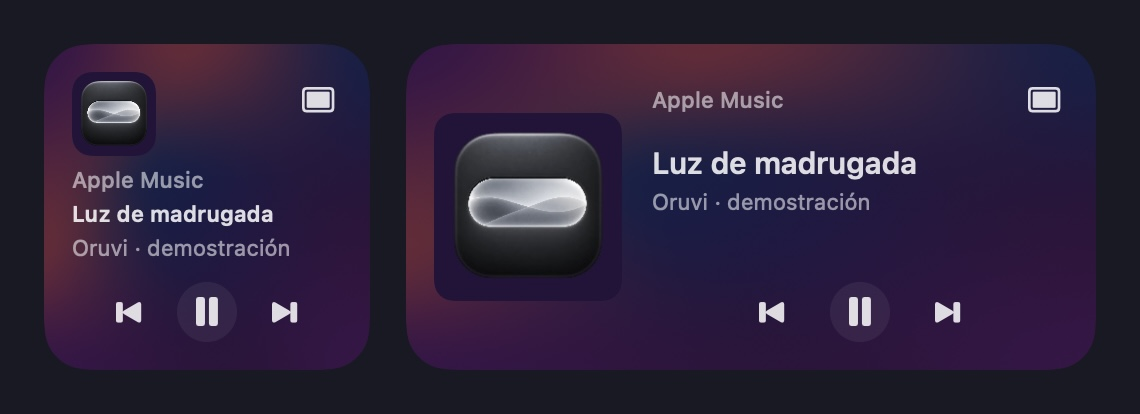
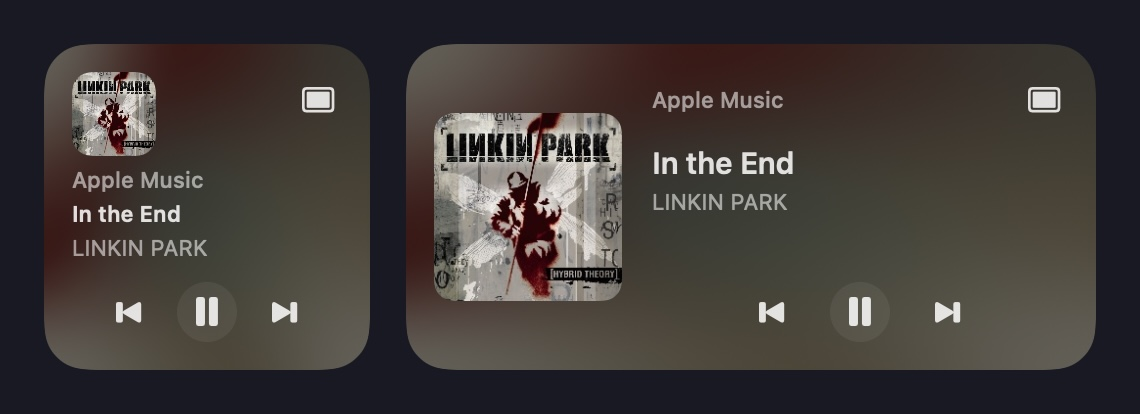
Show real Apple Music playback in Oruvi documentation

diff --git a/README.md b/README.md
@@ -12,7 +12,7 @@
 
 <p align="center">Apple silicon (M1 o posterior) · macOS 26 o posterior · <a href="LICENSE">Licencia MIT</a></p>
 
-![Standby de Oruvi con portada, controles y letra sincronizada en el modo de demostración](.github/media/standby.jpg)
+![Standby de Oruvi con la portada de Hybrid Theory, controles y letras sincronizadas de In the End](.github/media/standby.jpg)
 
 ## Instalar Oruvi
 
@@ -34,7 +34,7 @@ Las próximas versiones se descargan desde GitHub con **Ajustes → Actualizacio
 
 ![Ajustes de tipografía con muestras de fuentes y vista previa del tamaño de las letras](.github/media/tipografia.jpg)
 
-Las capturas muestran el modo de demostración con texto y portada de ejemplo.
+Standby se capturó mientras Apple Music reproducía **In the End**, de **LINKIN PARK**. La imagen de Tipografía muestra la vista previa de Oruvi.
 
 ## Widgets de macOS
 
@@ -42,7 +42,7 @@ Las capturas muestran el modo de demostración con texto y portada de ejemplo.
 
 ![Widgets de Oruvi en tamaño pequeño y mediano. Ambos muestran portada, pista, artista, controles de reproducción y acceso a Standby](.github/media/widgets.jpg)
 
-La imagen usa las vistas reales del widget y datos de reproducción de demostración.
+La imagen renderiza las vistas del widget con la misma pista y la portada de **Hybrid Theory**.
 
 1. Abre **Oruvi** desde **Aplicaciones** al menos una vez.
 2. Haz clic secundario en el escritorio y elige **Editar widgets**.
